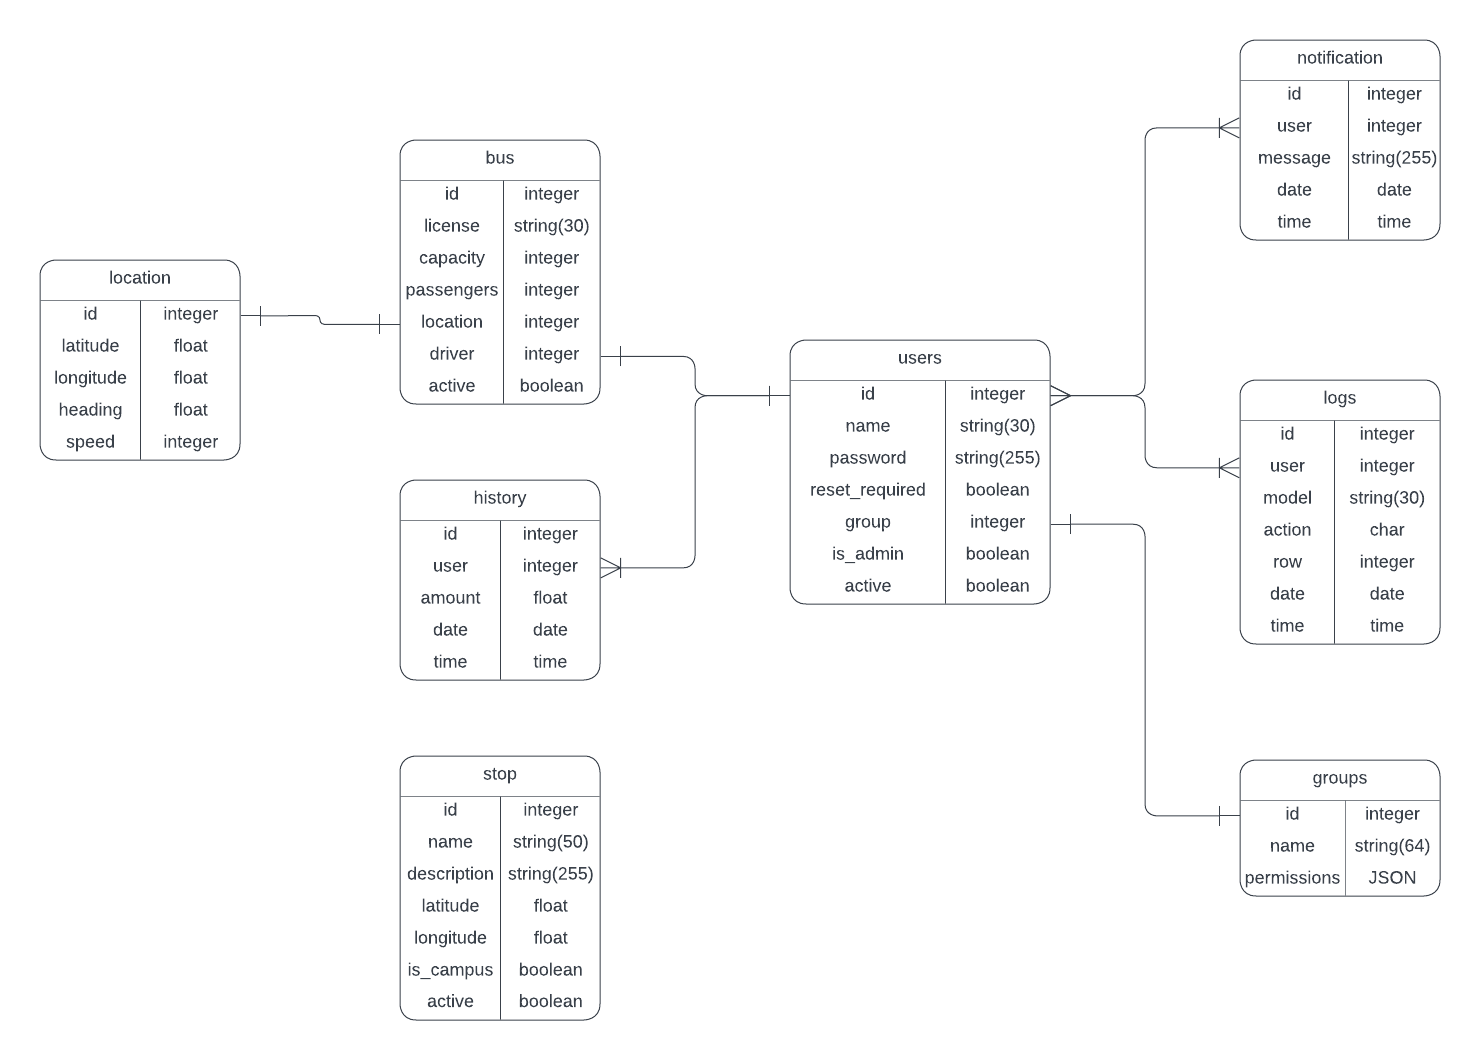
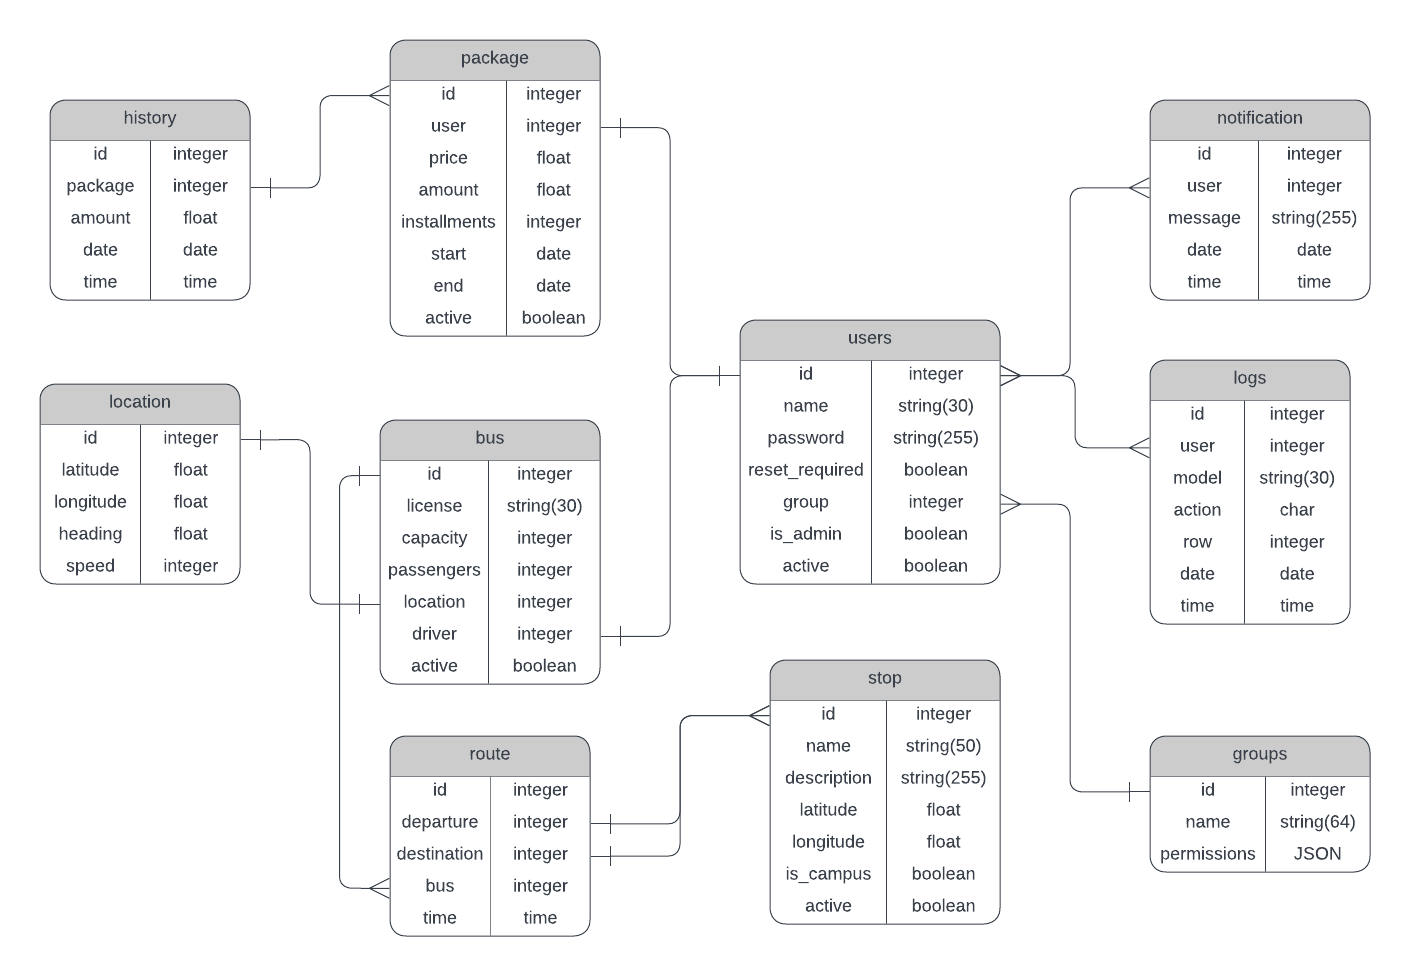
Fixed few models and components

diff --git a/frontend/src/pages/profile.jsx b/frontend/src/pages/profile.jsx
@@ -13,7 +13,9 @@ function Profile(){
     await redirect(user, navigate)
     // setLoading(true)
   }
-  useEffect(loadData, [checkFlag])
+  useEffect(() => {
+    loadData()
+  }, [checkFlag])
   return (
     <main><h1>Profile Page</h1></main>
   )

diff --git a/backend/tracking/models.py b/backend/tracking/models.py
@@ -1,4 +1,4 @@
-from sqlalchemy import Column, Integer, String, Boolean, Float
+from sqlalchemy import Column, Integer, String, Boolean, Float, Time
 from obmms.database import Base
 
 class Bus(Base):
@@ -69,3 +69,24 @@ class Stop(Base):
 
   def __repr__(self) -> str:
     return f"({self.id}) {self.name}"
+
+class Route(Base):
+  __tablename__ = "route"
+
+  id = Column(name="id", type_=Integer, primary_key=True, autoincrement=True)
+  departure = Column(name="departure", type_=Integer)
+  destination = Column(name="destination", type_=Integer)
+  bus = Column(name="bus", type_=Integer)
+  time = Column(name="time", type_=Time)
+
+  def serialize(self) -> dict:
+    return {
+      "id": self.id,
+      "departure": self.departure,
+      "destination": self.destination,
+      "bus": self.bus,
+      "time": self.time
+    }
+  
+  def __repr__(self) -> str:
+    return f"({self.id}) {self.departure} -> {self.destination} at {self.time}"

diff --git a/backend/accounts/models.py b/backend/accounts/models.py
@@ -32,7 +32,7 @@ class History(Base):
   __tablename__ = "history"
 
   id = Column(name="id", type_=Integer, primary_key=True, autoincrement=True)
-  user = Column(name="user", type_=Integer)
+  package = Column(name="package", type_=Integer)
   amount = Column(name="amount", type_=Float)
   date = Column(name="date", type_=Date)
   time = Column(name="time", type_=Time)
@@ -40,10 +40,11 @@ class History(Base):
   def serialize(self) -> dict:
     return {
       "id": self.id,
-      "user": self.user,
+      "package": self.package,
       "amount": self.amount,
-      "date": self.date.isoformat()
+      "date": self.date.isoformat(),
+      "time": self.time.isoformat()
     }
   
   def __repr__(self) -> str:
-    return f"({self.id}) User: {self.user}, Amount: {self.amount}, Date: {self.date}"
+    return f"({self.id}) Package: {self.package}, Amount: {self.amount}, Date: {self.date}, Time: {self.time}"

diff --git a/backend/obmms/settings.py b/backend/obmms/settings.py
@@ -35,7 +35,7 @@ DB_PASSWORD = ""
 DB_ECHO = False
 
 # Models settings
-MODELS = ["users", "group", "buses", "location", "stops"]
+MODELS = ["users", "group", "buses", "location", "stops", "routes", "packages", "history"]
 
 # Email Settings
 EMAIL = "moeezrazaseven@gmail.com"
